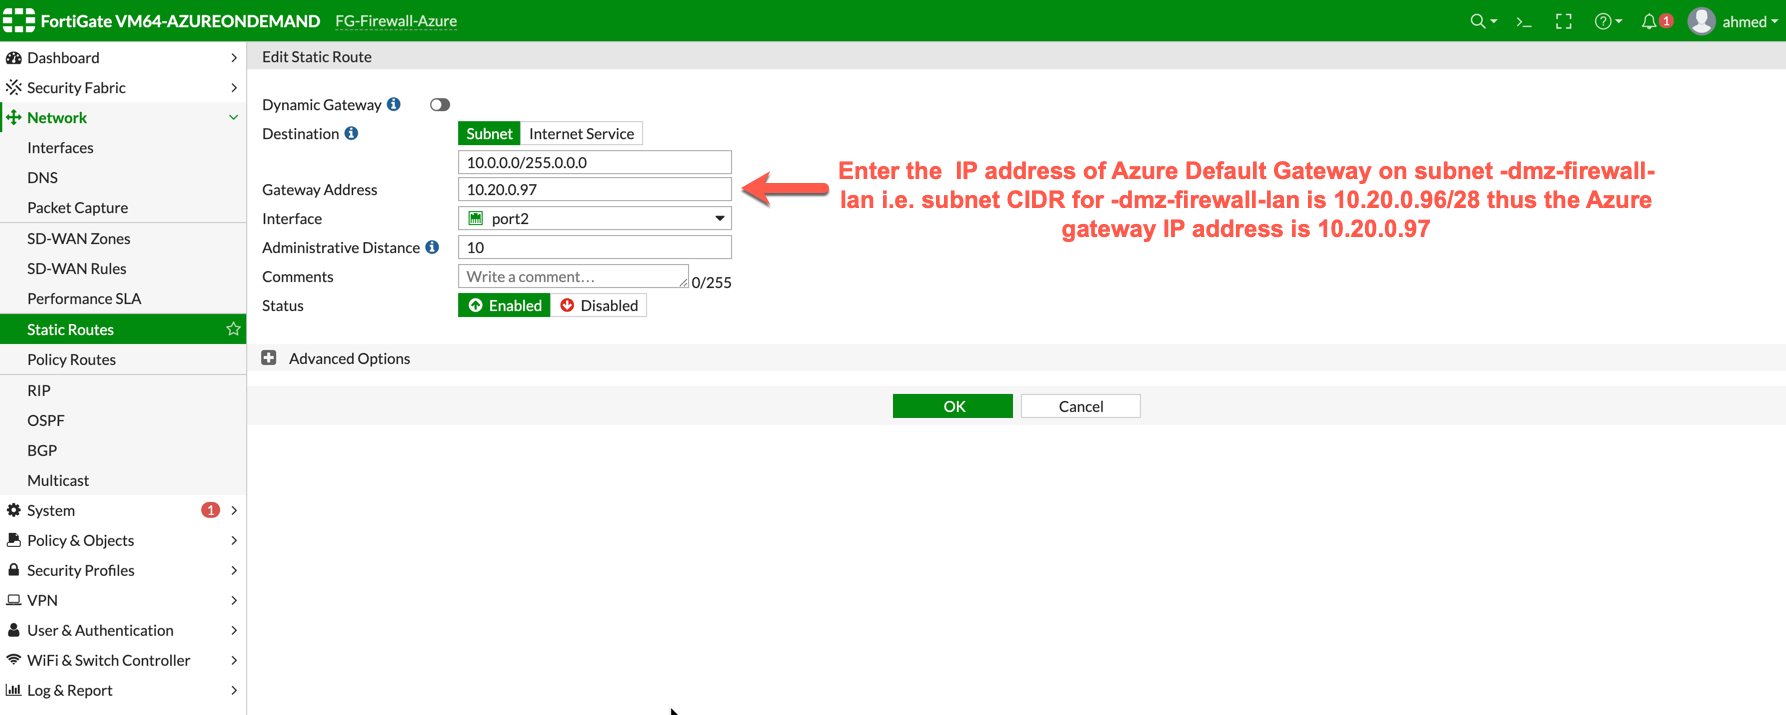
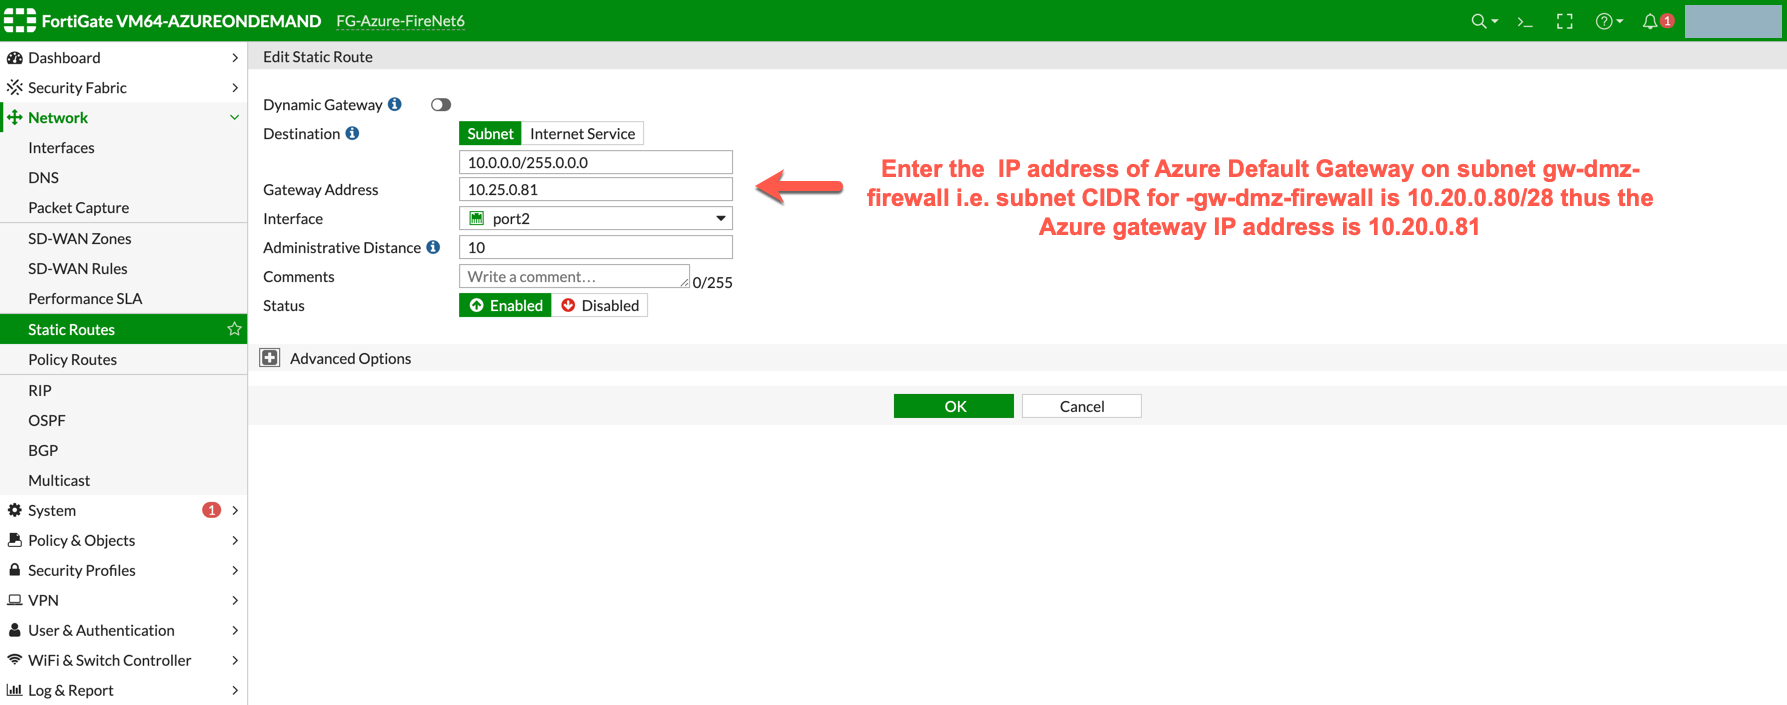
Updated Static Routes Image to show RFC1918 and LB Static Route

diff --git a/HowTos/config_FortiGateAzure.rst b/HowTos/config_FortiGateAzure.rst
@@ -79,7 +79,7 @@ Go to the page "Network -> State Routes" to create a Static Route as the followi
   - Click on the button "Create New"
   - Enter the destination route in the "Destination" box
   - In the "Gateway Address" box, you will need to enter the Azure default gateway IP on subnet -dmz-firewall-lan
-    i.e. subnet CIDR for -dmz-firewall-lan is 10.20.0.96/28, thus the Azure default gateway IP on this subnet is 10.20.0.97
+    i.e. subnet CIDR for -dmz-firewall-lan is 10.20.0.80/28, thus the Azure default gateway IP on this subnet is 10.20.0.81
 
   .. note::
     dmz-firewall-lan subnet can be found in Aviatrix Controller. Go to Aviatrix Controller's console -> Gateway -> Select Gateway and click Edit -> click More details to check all subnets.
@@ -91,7 +91,12 @@ Go to the page "Network -> State Routes" to create a Static Route as the followi
 
 |az_fortigate_static_routes|
 
-Those static routes could also be reviewed on the page "Dashboard -> Network -> Routing"
+.. important::
+    Load Balancer static route 168.63.129.16/32 needs to be added manually pointing to the lan interface (port 2). 168.63.129.16/32 is the health probe source address.
+
+Those static routes could also be reviewed on the page "Dashboard -> Network -> Routing".
+
+RFC 1918 routes are highlighted in RED where as load balancer static route is highlighted in GREEN.
 
 |az_fortigate_static_routes_review|
 
